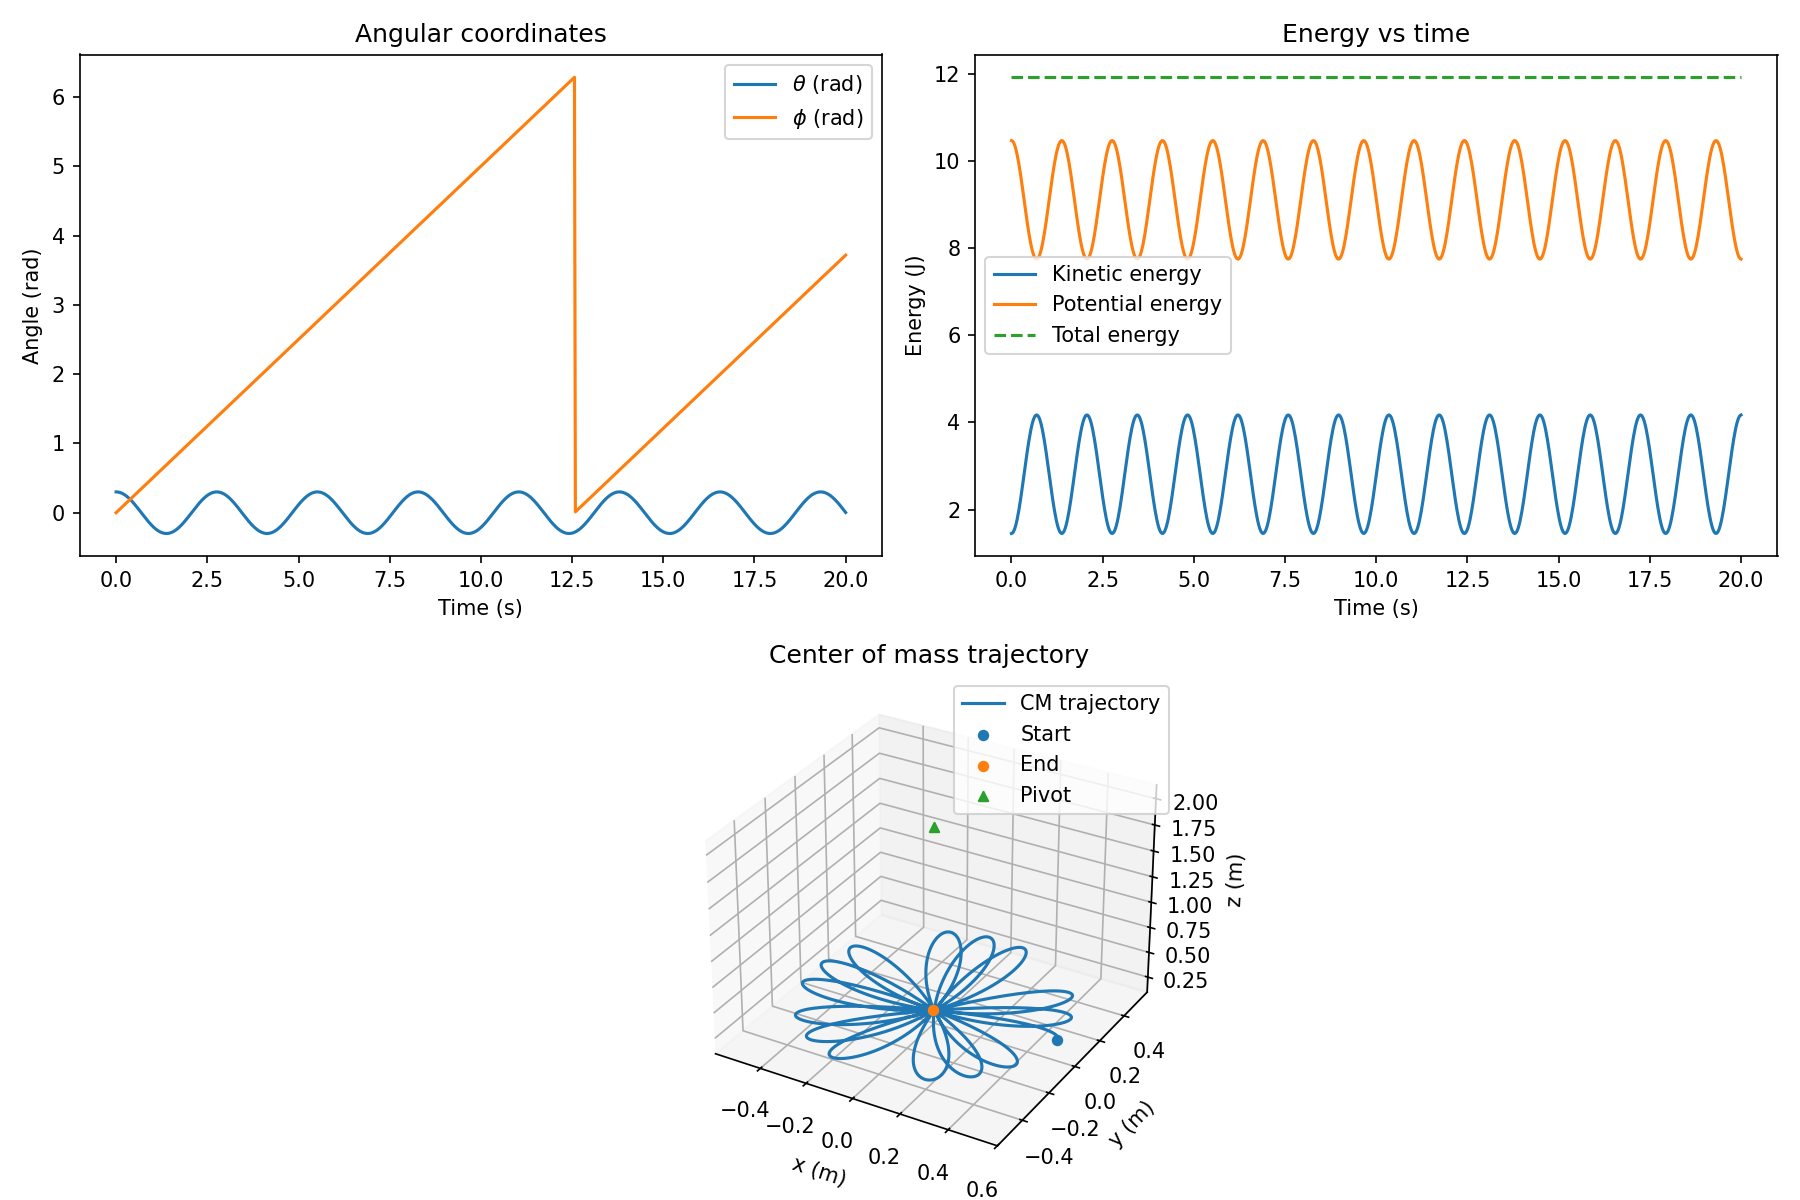
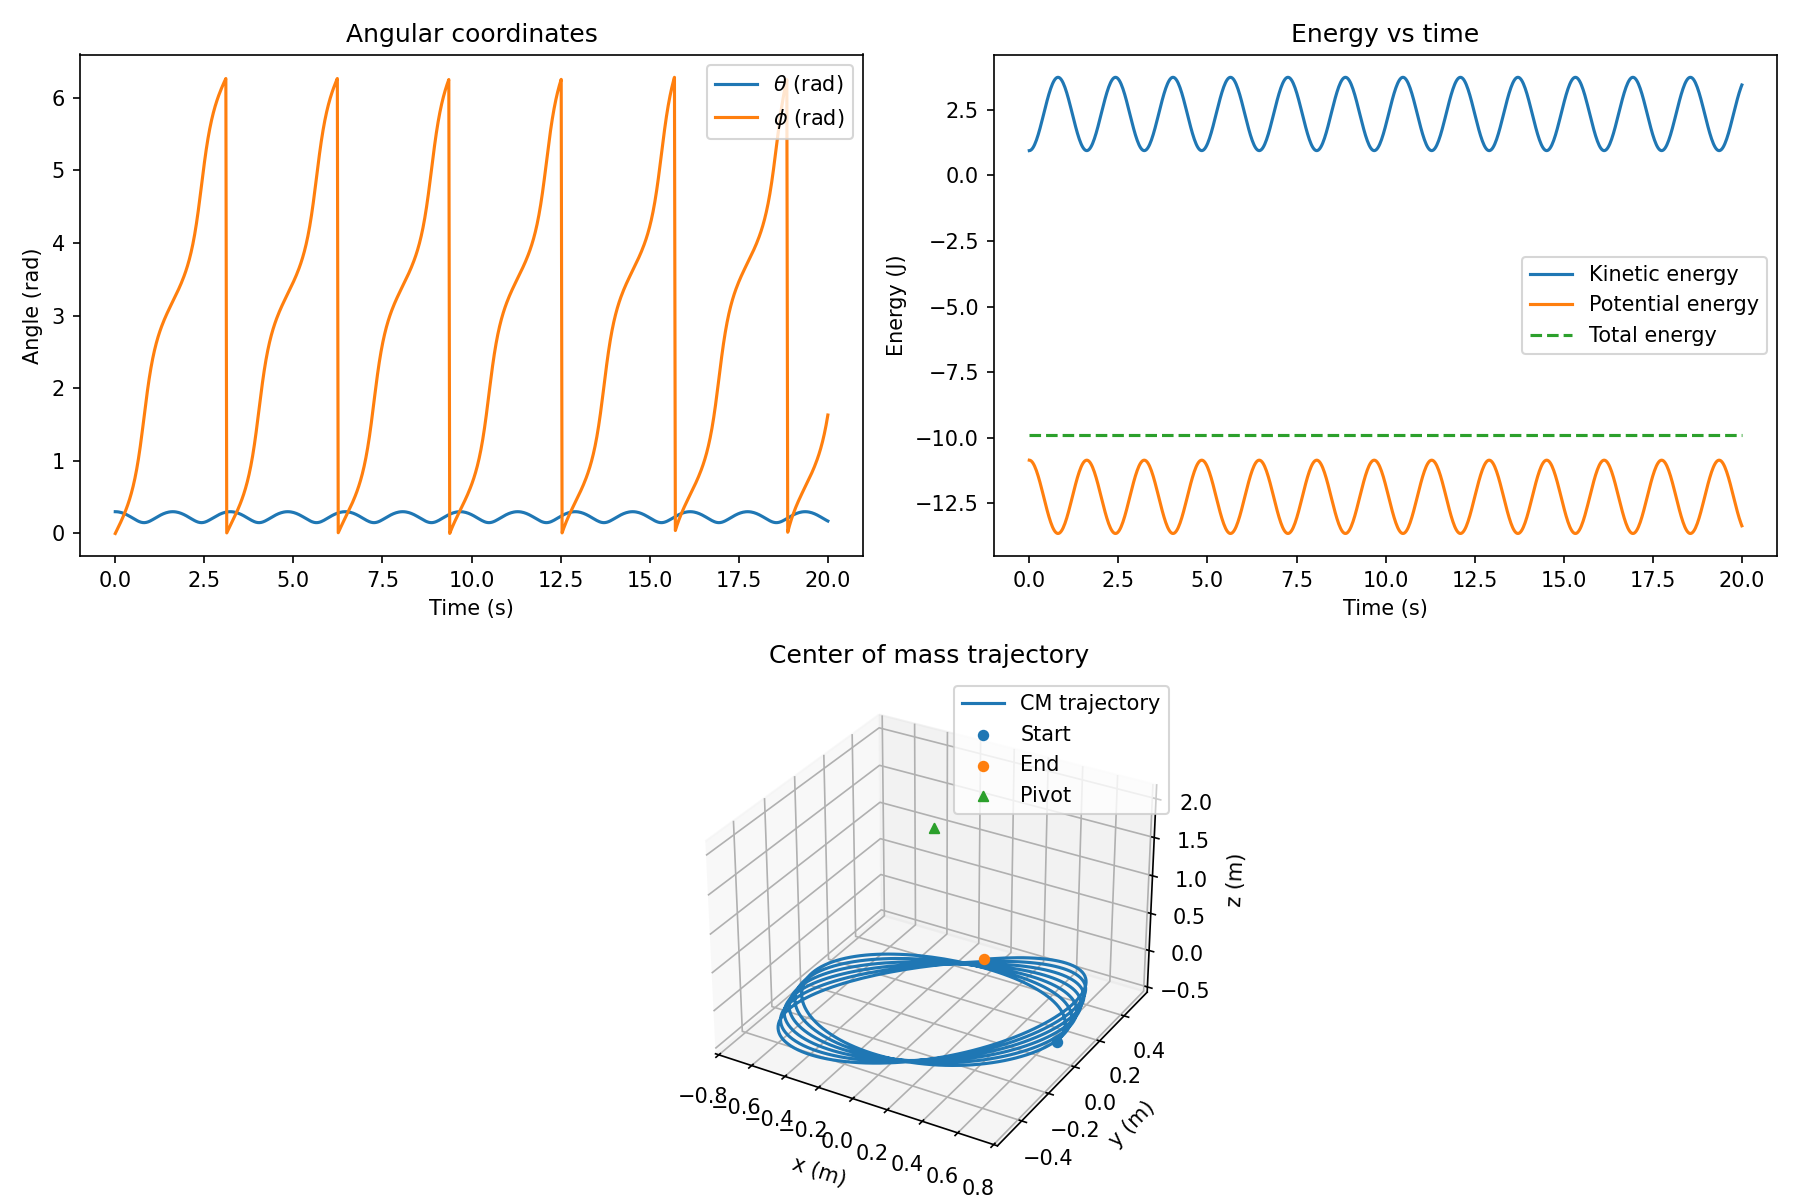
Fixes and eliminated two .pys

diff --git a/Pendullum/physics/Eqns_Motion_3D.py b/Pendullum/physics/Eqns_Motion_3D.py
@@ -50,7 +50,7 @@ class Eqnsmotion:
     def energy(self,theta,dtheta,phi,dphi):
         # Kinetic energy and potential energy
 
-        kin_en = 0.5*self.I*(dtheta**2 + dphi**2)
+        kin_en = 0.5*self.I*(dtheta**2 + (np.sin(theta))**2*dphi**2)
 
         _, _, z_cm = self.position_cm(theta,phi)
         pot_en = (self.m + self.M)*self.g*z_cm
@@ -62,20 +62,27 @@ class Eqnsmotion:
         return kin_en, pot_en, total_en, lagrangian
 
 
-    def theta_angular_accel(self,theta):
+    def angular_accel(self,theta,dtheta,dphi):
 
         if self.I <= 0:
             raise ValueError("Moment of inertia is zero or negative.")
         else:
-            return (-(self.m + self.M)*self.A*self.g*np.sin(theta)) / self.I
+
+            ddtheta = np.sin(theta)*np.cos(theta)*dphi**2 + (-(self.m + self.M)*self.A*self.g*np.sin(theta)) / self.I
+
+            if np.sin(theta) < 1e-8:
+                ddphi = 0.0
+            else: 
+                ddphi = -(2*dtheta*dphi)/np.tan(theta)
+
+            return ddtheta, ddphi
             
         
     def equations_of_motion(self, t, y):
 
         theta, dtheta, phi, dphi = y
 
-        ddtheta = self.theta_angular_accel(theta)
-        ddphi = 0.0
+        ddtheta, ddphi = self.angular_accel(theta,dtheta,dphi)
 
         return [dtheta, ddtheta, dphi, ddphi]
 
